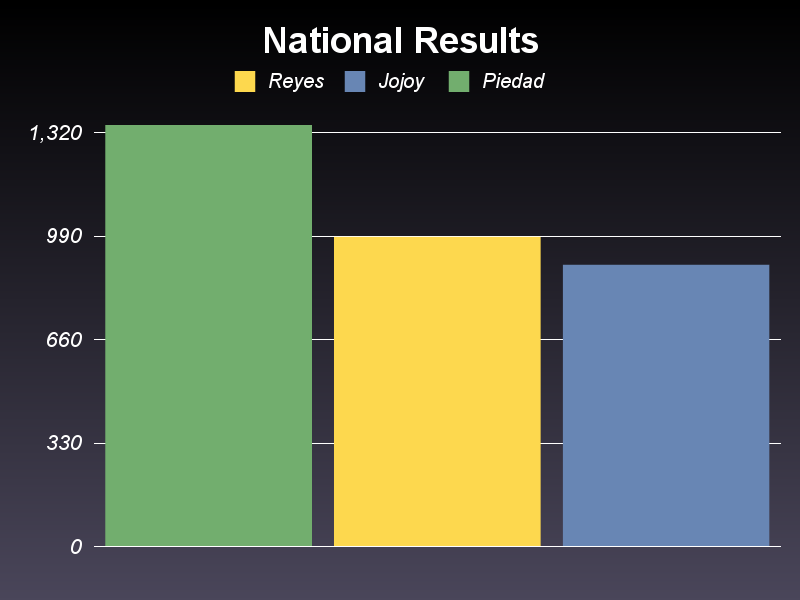
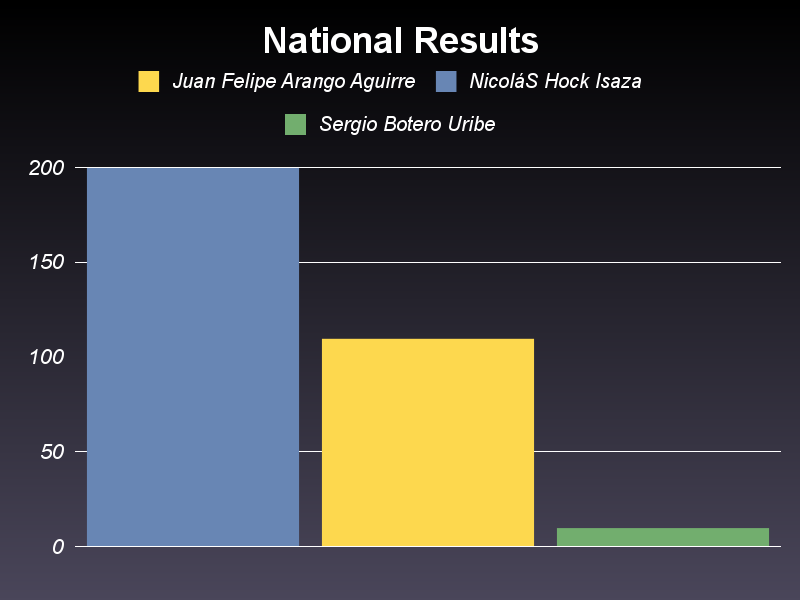
A lot of view work

diff --git a/server/public/main.css b/server/public/main.css
@@ -14,6 +14,7 @@ a img{border: none;}
 
 .list {text-align: left;}
 
+
 h1.title {text-align: center;}
 .graph{width: 500px; margin: 0 auto; float:left;}
 #graphs{width: 950px; margin: 0 auto; padding-top: 80px;}

diff --git a/server/lib/helpers.rb b/server/lib/helpers.rb
@@ -2,6 +2,10 @@ def titleize(string)
   string.gsub(/\b('?[a-z])/) { $1.capitalize }
 end
 
+def humanize(string)
+  string.gsub(/(_|-)/, " ").titleize
+end
+
 def al_garete(content, url)
   "<a href='#{url}'>#{content}</a>"
 end
@@ -22,9 +26,9 @@ module CommonHelpers
         # member path
         parts = real_path.split("_")
         if parts.size > 1
-          return "/#{parts.last}s/#{args.first.id}/#{parts.first}"
+          return "/#{parts.last}/#{args.first.id}/#{parts.first}"
         else
-          return "/#{real_path}s/#{args.first.id}"
+          return "/#{real_path}/#{args.first.id}"
         end
       end
     end
@@ -41,7 +45,7 @@ module CommonHelpers
       g = Gruff::Bar.new
       g.title = name
       runners.each do |runner, votes|
-        g.data(runner, [votes])
+        g.data(humanize(runner), [votes])
       end
       g.minimum_value = 0
       puts "Creating graph #{file_name}.png"

diff --git a/server/router.rb b/server/router.rb
@@ -14,6 +14,7 @@ class DaRouter
   ######################### COUNTRIES #########################
   
   get '/countries.:format' do
+    @countries = CountriesController.index
     :"countries/index"
   end
   
@@ -21,7 +22,7 @@ class DaRouter
   get '/countries/:id' do |key|
     # 0AsTunpthKrMxdEp5R1loYjBBcVhNQWVEc1BUZmZ1QUE
     @title = "Country Report"
-    @country = CountriesController.show({:id => id})
+    @country = CountriesController.show({:id => key})
     create_graph("National Results", "country_graph", @country.runners)
     :"countries/show"
   end
@@ -36,7 +37,7 @@ class DaRouter
   get '/states/:key' do |key|
     # 0AsTunpthKrMxdEp5R1loYjBBcVhNQWVEc1BUZmZ1QUE
     @title = "State Report"
-    @state = StatesController.show(key)
+    @state = StatesController.show({:id => key})
     create_graph("#{@state.name}'s Results", "state_graph", @state.runners)
     :"states/show"
   end

diff --git a/server/models/centre.rb b/server/models/centre.rb
@@ -10,6 +10,14 @@ class Centre < ActiveRecord::Base
     {:include => :tables}
   end
   
+  def total_votes
+    sum = 0
+    tables.each do |t|
+      sum += t.total_votes
+    end
+    sum
+  end
+  
   def runners
     runners = {}
     tables.each do |table|

diff --git a/server/models/city.rb b/server/models/city.rb
@@ -16,6 +16,14 @@ class City < ActiveRecord::Base
     runners
   end
   
+  def total_votes
+    sum = 0
+    runners.each do |key, value|
+      sum+=value
+    end
+    sum
+  end
+  
   def default_options
     {
       :methods => [:runners],

diff --git a/server/models/table.rb b/server/models/table.rb
@@ -12,6 +12,14 @@ class Table < ActiveRecord::Base
     }
   end
   
+  def total_votes
+    sum = 0
+    results.each do |t|
+      sum += t.votes
+    end
+    sum
+  end
+  
   def runners
     runners = {}
     results.each do |result|

diff --git a/server/controllers/states_controller.rb b/server/controllers/states_controller.rb
@@ -1,7 +1,5 @@
 class StatesController
-  def self.show(key)
-    @state = State.new_state_from_key(key)
-    # Make it clap!
-    @state
+  def self.show(params)
+    State.find params[:id]
   end
 end

diff --git a/server/init/gems.rb b/server/init/gems.rb
@@ -1,4 +1,4 @@
 require 'erb'
 require 'tilt'
-#require 'gruff'
+require 'gruff'
 require 'active_record'
